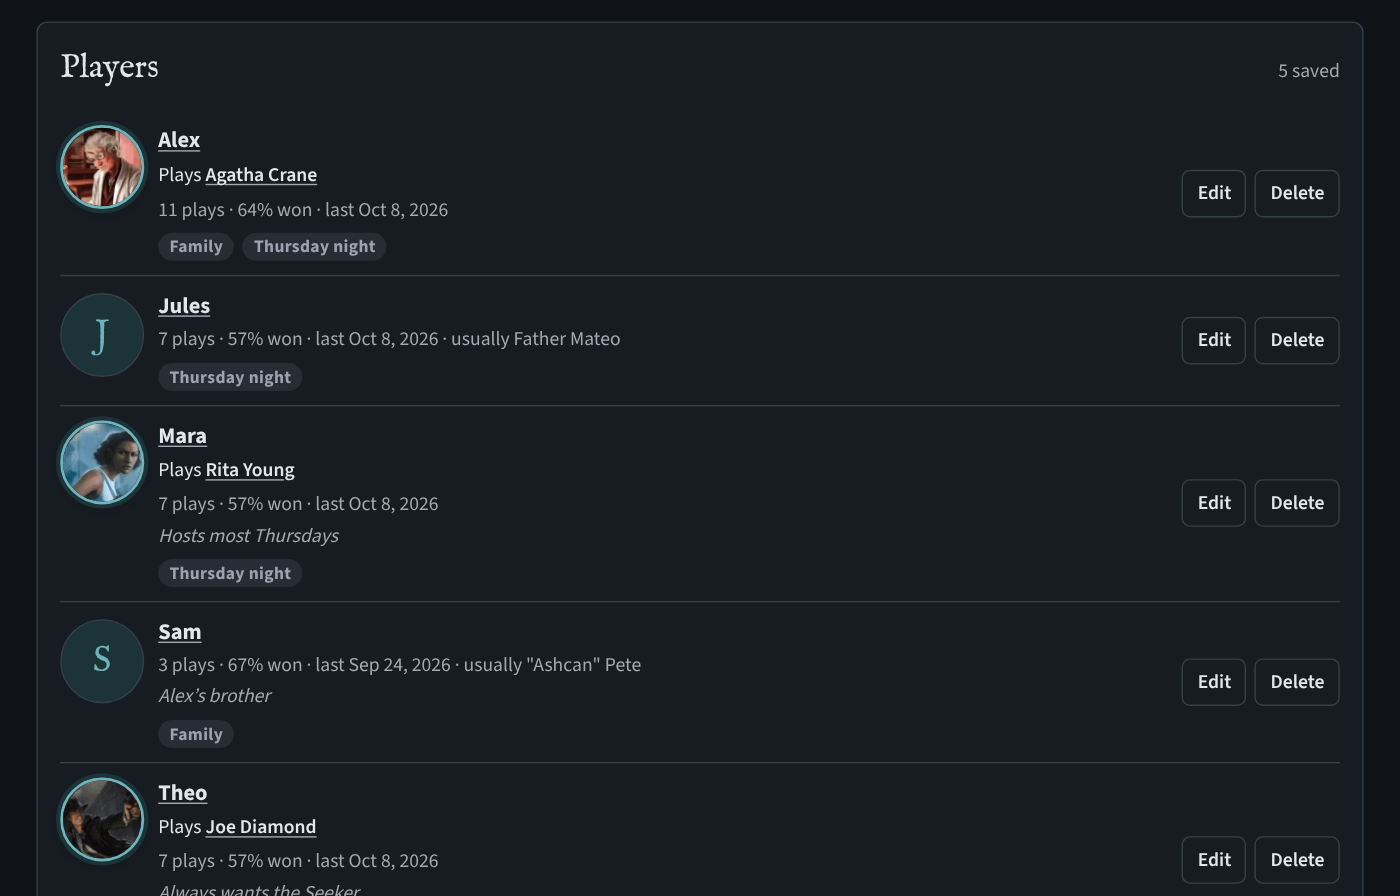
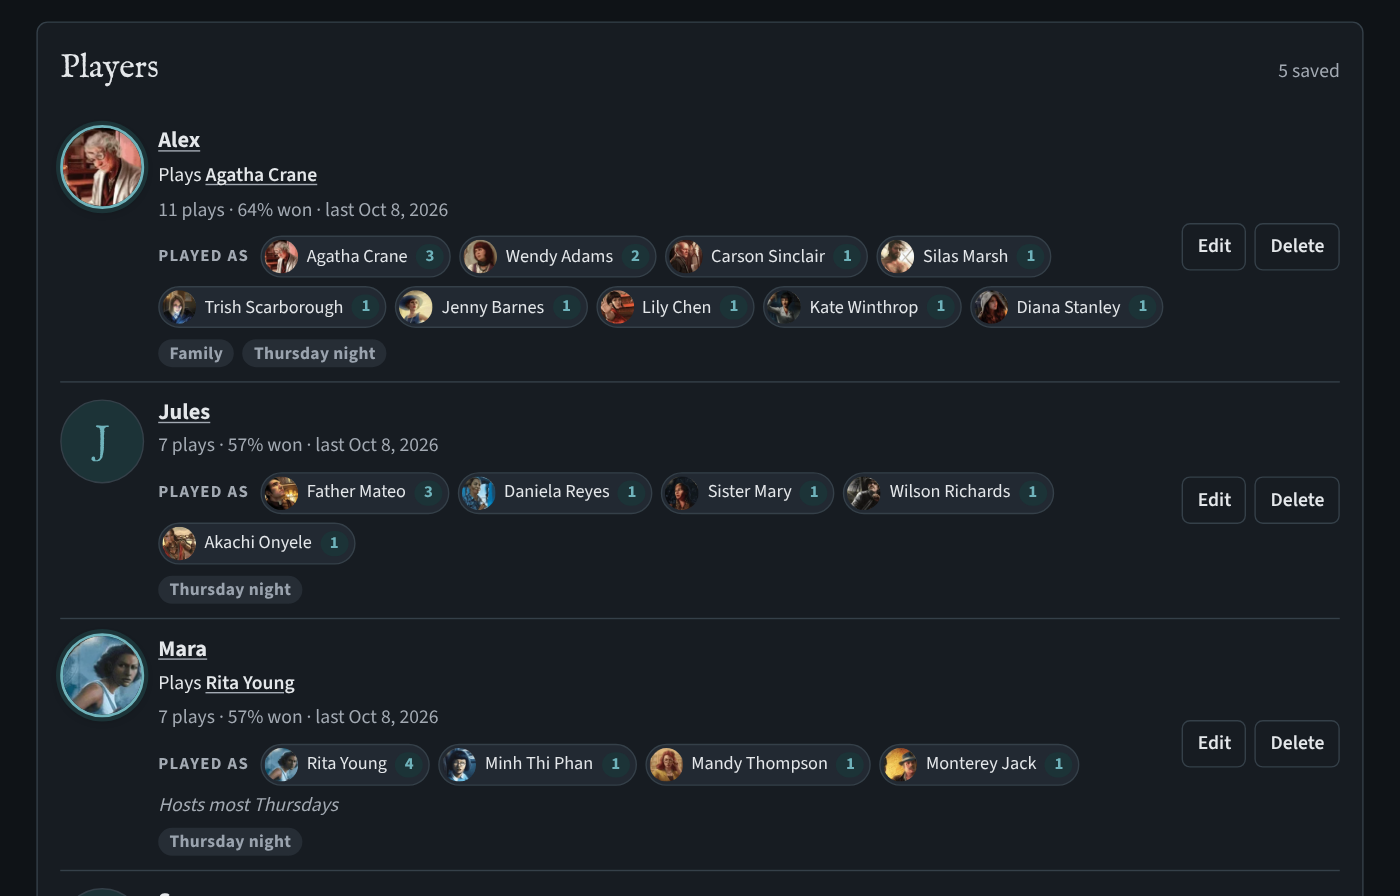
Players tab: Played as, every investigator each person has taken with counts (v78)
Claude-Session: https://claude.ai/code/session_019kh66ouXYwNDK6aTZ456xr

diff --git a/js/app.js b/js/app.js
@@ -626,8 +626,8 @@ function personStats(name){
     // one play however many characters they took; each of those characters counts once
     n++;if(p.result==='pass')pass++;if((p.date||'')>last)last=p.date;
     var once={};seats.forEach(function(s){if(s.investigator&&!once[s.investigator]){once[s.investigator]=1;inv[s.investigator]=(inv[s.investigator]||0)+1;}});});
-  var fav=Object.keys(inv).sort(function(a,b){return inv[b]-inv[a];})[0];
-  return {n:n,pass:pass,last:last,fav:fav,favN:fav?inv[fav]:0};
+  var all=Object.keys(inv).sort(function(a,b){return inv[b]-inv[a];}),fav=all[0];
+  return {n:n,pass:pass,last:last,fav:fav,favN:fav?inv[fav]:0,invs:all.map(function(k){return [k,inv[k]];})};
 }
 // a player's investigator: the one set for them on the Players tab, else the one they've played most
 function usualInv(name){var x=personByName(name);if(x&&x.inv&&MOM.isInvestigator(x.inv))return x.inv;var fav=personStats(name).fav;return fav&&MOM.isInvestigator(fav)?fav:'';}
@@ -661,12 +661,12 @@ function playersHtml(){
   var pl=people.slice().sort(byName);
   h+='<section class="sec"><div class="sec-head"><h2>'+t('Players')+'</h2><span class="note">'+tn('{n} saved','{n} saved',pl.length)+'</span></div>'+
     (pl.length?'<ul class="scs">'+pl.map(function(x){var st=personStats(x.name),ing=groups.filter(function(g){return (g.members||[]).indexOf(x.id)>=0;}).sort(byName);
-      var line=st.n?tn('{n} play','{n} plays',st.n)+' · '+t('{pct} won',{pct:pct(st.pass,st.n)})+(st.last?' · '+t('last {date}',{date:esc(fmtDate(st.last))}):'')+(st.fav&&st.fav!==x.inv?' · '+t('usually {name}',{name:esc(st.fav)}):''):t('No plays yet');
+      var line=st.n?tn('{n} play','{n} plays',st.n)+' · '+t('{pct} won',{pct:pct(st.pass,st.n)})+(st.last?' · '+t('last {date}',{date:esc(fmtDate(st.last))}):''):t('No plays yet');
       var inv=x.inv&&MOM.isInvestigator(x.inv)?x.inv:'';
       return '<li'+(inv?' class="has-inv"':'')+'>'+(inv?'<button type="button" class="inv-face" data-a="invcard" data-n="'+esc(inv)+'" aria-label="'+t('Show {name}’s card',{name:esc(inv)})+'" title="'+esc(inv)+'"><img src="'+invImg(inv,'face')+'" alt="" loading="lazy" width="160" height="160"></button>':avatarHtml(x.name,'','','pl'))+
         '<div class="grow"><b>'+(st.n?'<a href="#" data-a="playerplays" data-n="'+esc(x.name)+'">'+esc(x.name)+'</a>':esc(x.name))+'</b>'+
         (inv?'<span class="inv-line">'+t('Plays {name}',{name:'<a href="#" data-a="invcard" data-n="'+esc(inv)+'">'+esc(inv)+'</a>'})+'</span>':'')+
-        '<span class="note">'+line+'</span>'+(x.notes?'<span class="note pnote">'+esc(x.notes)+'</span>':'')+
+        '<span class="note">'+line+'</span>'+playedAsHtml(st.invs)+(x.notes?'<span class="note pnote">'+esc(x.notes)+'</span>':'')+
         (ing.length?'<span class="row tight chips">'+ing.map(function(g){return '<span class="chip muted">'+esc(g.name)+'</span>';}).join('')+'</span>':'')+'</div>'+
         '<div class="row tight"><button class="btn sm" data-a="editperson" data-id="'+esc(x.id)+'">'+t('Edit')+'</button><button class="btn sm ghost" data-a="delperson" data-id="'+esc(x.id)+'">'+t('Delete')+'</button></div></li>';}).join('')+'</ul>'
       :'<p class="note">'+t('Add the people you play with. They don’t need accounts; it’s just their names, for picking quickly when you log a play and for stats per person.')+'</p>')+'</section>';
@@ -675,6 +675,13 @@ function playersHtml(){
   if(loose.length)h+='<section class="sec"><div class="sec-head"><h2>'+t('In your plays, not saved yet')+'</h2><button class="btn sm" data-a="addloose">'+t('Add all {n}',{n:loose.length})+'</button></div><ul class="scs">'+
     loose.map(function(n){var st=personStats(n);return '<li>'+avatarHtml(n,'','')+'<div class="grow"><b>'+esc(n)+'</b><span class="note">'+tn('{n} play','{n} plays',st.n)+'</span></div><button class="btn sm" data-a="addname" data-n="'+esc(n)+'">'+t('Add')+'</button></li>';}).join('')+'</ul></section>';
   return h;
+}
+// every investigator someone has played, most played first, each opening its card
+function playedAsHtml(invs){
+  if(!invs||!invs.length)return '';
+  return '<div class="played-as"><span class="lbl">'+t('Played as')+'</span>'+invs.map(function(v){var nm=esc(v[0]),ttl=nm+' · '+tn('{n} play','{n} plays',v[1]);
+    return MOM.isInvestigator(v[0])?'<button type="button" class="ipill" data-a="invcard" data-n="'+nm+'" title="'+ttl+'" aria-label="'+ttl+'"><img src="'+invImg(v[0],'face')+'" alt="" loading="lazy" width="160" height="160"><span>'+nm+'</span><b>'+v[1]+'</b></button>'
+      :'<span class="ipill" title="'+ttl+'"><span>'+nm+'</span><b>'+v[1]+'</b></span>';}).join('')+'</div>';
 }
 function newId(){return fb.db.collection('users/'+me.uid+'/people').doc().id;}
 function savePerson(name,notes,inv){var id=newId();var d={name:name,notes:notes||'',created:Date.now()};if(inv)d.inv=inv;return fb.db.doc('users/'+me.uid+'/people/'+id).set(d).then(function(){return id;});}

diff --git a/test/ui.test.js b/test/ui.test.js
@@ -458,7 +458,9 @@ const gviz={status:'ok',table:{cols:rows[0].map(l=>({label:l})),rows:rows.slice(
   await p.waitForSelector('.scs li');
   const danLine=await p.$$eval('.scs li',ls=>{const l=ls.find(x=>{const b=x.querySelector('.grow > b');return b&&b.textContent.trim()==='Dan';});return l?l.querySelector('.note').textContent:'';});
   assert.ok(new RegExp('^'+danAfter[0]+' plays').test(danLine),'Players tab agrees with Stats ('+danAfter[0]+'): '+danLine);
-  assert.ok(/usually (Carson Sinclair|Agatha Crane)/.test(danLine),'usual investigator: '+danLine);
+  const danInvs=await p.$$eval('.scs li',ls=>{const l=ls.find(x=>{const b=x.querySelector('.grow > b');return b&&b.textContent.trim()==='Dan';});return l?[...l.querySelectorAll('.played-as .ipill span')].map(e=>e.textContent):[];});
+  assert.ok(danInvs.includes('Carson Sinclair')&&danInvs.includes('Agatha Crane'),'played as both characters: '+danInvs);
+  await p.locator('.scs li',{hasText:'Dan'}).locator('.played-as').screenshot({path:out+'/6f-played-as.png'});
   // the form saves solo by people: one person, two characters
   await p.click('.bar [data-a=log]');await p.selectOption('select[name=sc]','o-rising-tide');
   await p.locator('.seat [name=pp]').first().fill('Dan');await p.waitForTimeout(150);if(await p.locator('.dd-wrap.combo').count())await p.keyboard.press('Escape');await p.locator('.seat [name=pi]').first().selectOption('Agatha Crane');

diff --git a/css/app.css b/css/app.css
@@ -494,6 +494,15 @@ details[data-box=starred]>summary h2::before{content:"\2605  ";color:var(--accen
 .inv-face img{width:100%;height:100%;object-fit:cover;display:block}
 .inv-face:hover{transform:scale(1.06)}
 .inv-face:focus-visible{outline:2px solid var(--focus);outline-offset:3px}
+.played-as{display:flex;flex-wrap:wrap;align-items:center;gap:6px;margin:6px 0 2px}
+.played-as .lbl{margin:0 2px 0 0}
+.ipill{display:inline-flex;align-items:center;gap:6px;padding:2px 4px 2px 2px;border:1px solid var(--line);border-radius:999px;background:var(--surface2);color:var(--ink);font:inherit;font-size:13px;line-height:1;white-space:nowrap}
+.ipill:not(button){padding-left:10px}
+button.ipill{cursor:zoom-in}
+button.ipill:hover{border-color:var(--accent)}
+button.ipill:focus-visible{outline:2px solid var(--focus);outline-offset:2px}
+.ipill img{width:24px;height:24px;border-radius:50%;object-fit:cover;display:block}
+.ipill b{min-width:20px;padding:3px 6px;border-radius:999px;background:var(--accent-soft);color:var(--accent);font-size:12px;text-align:center}
 .avatar.pl{width:60px;height:60px;font-size:26px;font-family:var(--display);font-weight:400}
 .inv-line{display:block;font-size:14px;margin:1px 0 2px}
 .inv-line a{font-weight:600}

diff --git a/js/lang/fr.js b/js/lang/fr.js
@@ -185,6 +185,7 @@ I18N.add('fr',[
 [`Shown with them on the Players tab, and filled in for them when you log a play.`,`Affiché avec cette personne dans l’onglet Joueurs, et rempli pour elle quand vous enregistrez une partie.`],
 [`Show {name}’s card`,`Voir la carte de {name}`],
 [`Plays {name}`,`Joue {name}`],
+[`Played as`,`A joué`],
 [`Flip card`,`Retourner la carte`],
 [`{name}, back of the card`,`{name}, dos de la carte`],
 [`Date`,`Date`],
@@ -285,7 +286,6 @@ I18N.add('fr',[
 [`{n} saved`,{one:`{n} enregistré`,other:`{n} enregistrés`}],
 [`{pct} won`,`{pct} de victoires`],
 [`last {date}`,`la dernière le {date}`],
-[`usually {name}`,`joue souvent {name}`],
 [`Add the people you play with. They don’t need accounts; it’s just their names, for picking quickly when you log a play and for stats per person.`,`Ajoutez les personnes avec qui vous jouez. Pas besoin de compte : ce ne sont que leurs noms, pour les choisir vite en notant une partie et pour les statistiques par personne.`],
 [`In your plays, not saved yet`,`Dans vos parties, pas encore enregistrés`],
 [`Add all {n}`,`Ajouter les {n}`],

diff --git a/js/lang/pl.js b/js/lang/pl.js
@@ -186,6 +186,7 @@ I18N.add('pl',[
 [`Shown with them on the Players tab, and filled in for them when you log a play.`,`Widoczny przy tej osobie na karcie Gracze i wpisywany za nią, gdy zapisujesz rozgrywkę.`],
 [`Show {name}’s card`,`Pokaż kartę: {name}`],
 [`Plays {name}`,`Gra: {name}`],
+[`Played as`,`Grał(a):`],
 [`Flip card`,`Odwróć kartę`],
 [`{name}, back of the card`,`{name}, rewers karty`],
 [`Date`,`Data`],
@@ -286,7 +287,6 @@ I18N.add('pl',[
 [`{n} saved`,{one:`{n} zapisany`,few:`{n} zapisanych`,many:`{n} zapisanych`,other:`{n} zapisanego`}],
 [`{pct} won`,`{pct} wygranych`],
 [`last {date}`,`ostatnio {date}`],
-[`usually {name}`,`zwykle {name}`],
 [`Add the people you play with. They don’t need accounts; it’s just their names, for picking quickly when you log a play and for stats per person.`,`Dodaj osoby, z którymi grasz. Nie potrzebują kont; to tylko ich imiona, do szybkiego wyboru przy zapisywaniu rozgrywki i do statystyk dla każdej osoby.`],
 [`In your plays, not saved yet`,`W Twoich rozgrywkach, jeszcze niezapisani`],
 [`Add all {n}`,`Dodaj wszystkich ({n})`],

diff --git a/js/lang/ca.js b/js/lang/ca.js
@@ -185,6 +185,7 @@ I18N.add('ca',[
 [`Shown with them on the Players tab, and filled in for them when you log a play.`,`Apareix amb aquesta persona a la pestanya Jugadors i s’omple per ella quan registres una partida.`],
 [`Show {name}’s card`,`Mostra la carta de {name}`],
 [`Plays {name}`,`Juga amb {name}`],
+[`Played as`,`Ha portat`],
 [`Flip card`,`Gira la carta`],
 [`{name}, back of the card`,`{name}, revers de la carta`],
 [`Date`,`Data`],
@@ -285,7 +286,6 @@ I18N.add('ca',[
 [`{n} saved`,{one:`{n} desat`,other:`{n} desats`}],
 [`{pct} won`,`{pct} de victòries`],
 [`last {date}`,`l'última el {date}`],
-[`usually {name}`,`sol portar {name}`],
 [`Add the people you play with. They don’t need accounts; it’s just their names, for picking quickly when you log a play and for stats per person.`,`Afegeix la gent amb qui jugues. No els cal compte; només són els seus noms, per triar-los ràpidament en registrar una partida i per a les estadístiques per persona.`],
 [`In your plays, not saved yet`,`A les teves partides, encara sense desar`],
 [`Add all {n}`,`Afegeix-los tots ({n})`],

diff --git a/js/lang/es.js b/js/lang/es.js
@@ -185,6 +185,7 @@ I18N.add('es',[
 [`Shown with them on the Players tab, and filled in for them when you log a play.`,`Aparece con esta persona en la pestaña Jugadores y se rellena por ella al registrar una partida.`],
 [`Show {name}’s card`,`Ver la carta de {name}`],
 [`Plays {name}`,`Juega con {name}`],
+[`Played as`,`Ha llevado a`],
 [`Flip card`,`Girar la carta`],
 [`{name}, back of the card`,`{name}, reverso de la carta`],
 [`Date`,`Fecha`],
@@ -285,7 +286,6 @@ I18N.add('es',[
 [`{n} saved`,{one:`{n} guardado`,other:`{n} guardados`}],
 [`{pct} won`,`{pct} de victorias`],
 [`last {date}`,`la última el {date}`],
-[`usually {name}`,`suele llevar a {name}`],
 [`Add the people you play with. They don’t need accounts; it’s just their names, for picking quickly when you log a play and for stats per person.`,`Añade a la gente con la que juegas. No necesitan cuenta; solo son sus nombres, para elegirlos rápido al registrar una partida y para las estadísticas por persona.`],
 [`In your plays, not saved yet`,`En tus partidas, aún sin guardar`],
 [`Add all {n}`,`Añadir los {n}`],

diff --git a/js/lang/pt.js b/js/lang/pt.js
@@ -185,6 +185,7 @@ I18N.add('pt',[
 [`Shown with them on the Players tab, and filled in for them when you log a play.`,`Aparece com a pessoa na aba Jogadores e é preenchido por ela quando você registra uma partida.`],
 [`Show {name}’s card`,`Ver a carta de {name}`],
 [`Plays {name}`,`Joga com {name}`],
+[`Played as`,`Já jogou com`],
 [`Flip card`,`Virar a carta`],
 [`{name}, back of the card`,`{name}, verso da carta`],
 [`Date`,`Data`],
@@ -285,7 +286,6 @@ I18N.add('pt',[
 [`{n} saved`,{one:`{n} salvo`,other:`{n} salvos`}],
 [`{pct} won`,`{pct} de vitórias`],
 [`last {date}`,`a última em {date}`],
-[`usually {name}`,`costuma usar {name}`],
 [`Add the people you play with. They don’t need accounts; it’s just their names, for picking quickly when you log a play and for stats per person.`,`Adicione as pessoas com quem você joga. Elas não precisam de conta; são só os nomes, para escolher rápido ao registrar uma partida e para as estatísticas por pessoa.`],
 [`In your plays, not saved yet`,`Nas suas partidas, ainda não salvos`],
 [`Add all {n}`,`Adicionar os {n}`],

diff --git a/js/version.js b/js/version.js
@@ -1,3 +1,3 @@
 /* The one place the version lives. Bump it with every change (see CLAUDE.md): every page's footer and the
    account menu show it, and the offline cache in sw.js is named after it, so a bump also refreshes installed apps. */
-self.APP_VERSION='v77';
+self.APP_VERSION='v78';

diff --git a/README.md b/README.md
@@ -23,7 +23,7 @@ This repo is the code behind the live site. It isn't packaged for running your o
 - **Nothing lost by a stray tap.** Once you've typed or picked anything in a form (logging a play, a player, a group, a schedule, feedback), a click outside it, Escape, × or Cancel asks **Discard your changes?** first, with **Keep editing** as the default.
 - **Play again.** Scenarios you've played show **Play again** (with a replay icon) instead of Log a play: the form opens with the same players, investigators, rules and place as last time, and the attempt number goes up after a loss.
 - **Packing lists.** Every Valkyrie scenario has a **Packing list** (also on the Next game card): the tiles it uses in the order they first come into play (worked out by following the scenario's events from its start; switch to **By tile number** to find them in the box), every one from a Fantasy Flight box numbered as in the community [Mansions of Madness Tiles Index v5.2](https://boardgamegeek.com/filepage/147448/mansions-of-madness-tiles-index), each with a color-coded tag for the set whose symbol is printed on it (Core, 1E, CotW, FA, BtT, SoA, SoT, HJ, PotS; first-edition pieces also say which box reprints them) and the side on its back, the tiles only needed for 6 players, and the monster figures (with the custom monsters each one stands in for). Tick things off as you pack; the ticks stay on that device. Each scenario also says which boxes it **needs**, flagging any not ticked in Settings, and the Scenarios tab can show only those **Playable with what I own**. It's the website version of the [valkyrie-tools packlist](https://github.com/maniac782/valkyrie-tools/tree/main/packlist), built from each scenario file by `scripts/fetch-packlists.py` and refreshed with the weekly Valkyrie update. Each tile and monster shows its picture (© Fantasy Flight Games; see *Art*): tap the picture to see it full size and swipe or use the arrows to go through the list, and tap anywhere else on the row to tick it off.
-- **Players.** The people you play with, without them needing accounts: just their names, an optional note and optionally **their investigator**, whose round portrait takes the place of their initial with a **Plays …** line under their name (tap either for the full card, and tap again or **Flip card** to see the back; that investigator is also filled in for them when you log a play), with plays, win rate, last game and their usual investigator. Put them in **groups** (one person can be in several); when logging a play, pick a group to fill in the seats, then adjust for that scenario. Names already typed into plays can be saved with one tap, and renaming someone can update their past plays too.
+- **Players.** The people you play with, without them needing accounts: just their names, an optional note and optionally **their investigator**, whose round portrait takes the place of their initial with a **Plays …** line under their name (tap either for the full card, and tap again or **Flip card** to see the back; that investigator is also filled in for them when you log a play), with plays, win rate, last game and **Played as**: every investigator they've taken, most played first, each with a small portrait and how many games (tap one for its card). Put them in **groups** (one person can be in several); when logging a play, pick a group to fill in the seats, then adjust for that scenario. Names already typed into plays can be saved with one tap, and renaming someone can update their past plays too.
 - **Stats.** **Combinations**: a table of any two things against each other (scenario, investigator, player, expansion, party size, place, rules, result or scenario type, in rows and columns, swapped with one tap), showing plays, wins or win rate; **Include** adds what you haven't played yet, so the empty cells are the combinations still to try (say, which investigators you've never taken into which scenarios): **Your boxes** (the official scenarios and investigators from the boxes you own, the default), **Boxes + starred** (plus your starred Valkyrie scenarios) or **Everything** (every Valkyrie scenario too); or **Played only**. The table scrolls with its headings fixed, and the choice is remembered on the device. Then win rates per person, per investigator, per scenario, by party size, by rules variant and by scenario type. A person who plays two characters in one game counts once for that game (names match ignoring case); party size counts people, so one person running two investigators is solo.
 - **Import.** From a Google Sheet link (shared as "Anyone with the link") or a CSV file. Understands the original tracking sheet's columns (*Scenario, Played, Characters, Pass/Fail, Notes, Rules*) and this site's own export. Short investigator names are expanded ("Tommy" → Tommy Muldoon); "Passed on 3rd try" becomes a win on attempt 3 (Won/Lost, Win/Loss and Pass/Fail are all understood); rows marked N under Played are skipped; anything already imported is never added twice.
 - **Profile pictures.** In the account menu (your picture and name, top right; built to look and behave exactly like the Arkham Horror RPG Ledger's, down to the same class names and styles), **Your account** lets you choose a picture, position and zoom it in a circle, and change your name. Without a picture, your initial shows on a color you pick there (the colors hide while a picture is showing). It shows on your account button and in the admin page's account list.
